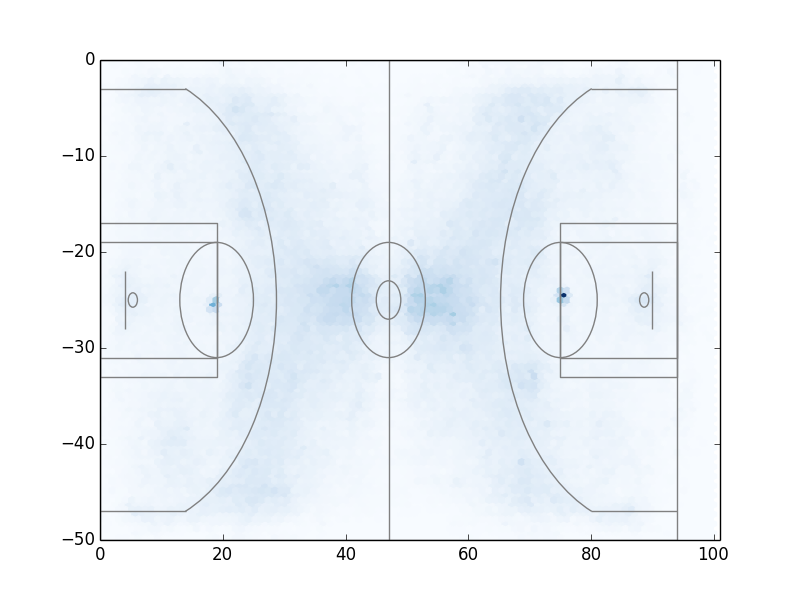
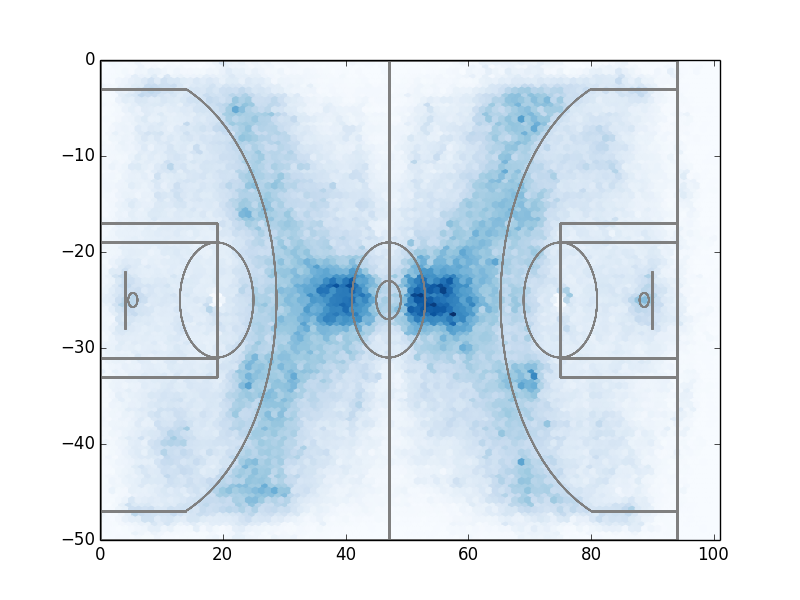
removed free throw points

diff --git a/tracking/code/ball_tracking.py b/tracking/code/ball_tracking.py
@@ -87,6 +87,8 @@ def draw_court(ax=None, color="gray", lw=1, zorder=0):
 
 teams = pd.read_csv("./../data/ball_data.csv").groupby("off")
 for name, df in teams:
+    df = df[~((((df["x"] >= 18) & (df["x"] <= 20)) | ((df["x"] >= 74) & (df["x"] <= 76))) & ((df["y"] <= 26) & (df["y"] >= 24)))]
+
     # plt.hist2d(np.array(df["x"]), np.array(-df["y"]), bins=100, cmap=plt.cm.get_cmap("Blues"))
     plt.hexbin(df["x"], -df["y"], cmap=plt.cm.get_cmap("Blues"))
 
@@ -95,4 +97,4 @@ for name, df in teams:
     ax.set_xlim(0, 101)
     ax.set_ylim(-50, 0)
     plt.savefig('./../figures/%s' % (name))
-    plt.show()
+    print name
